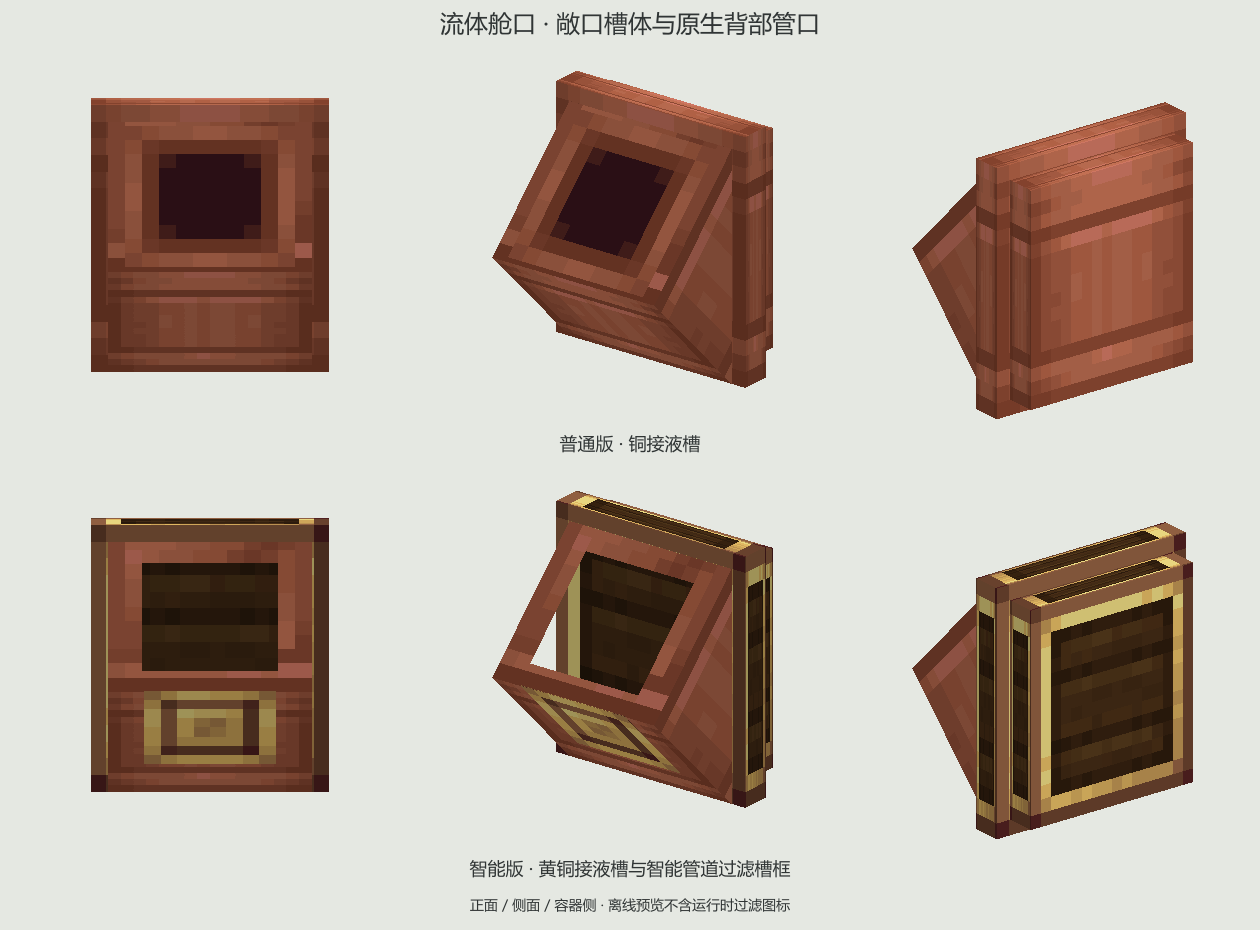
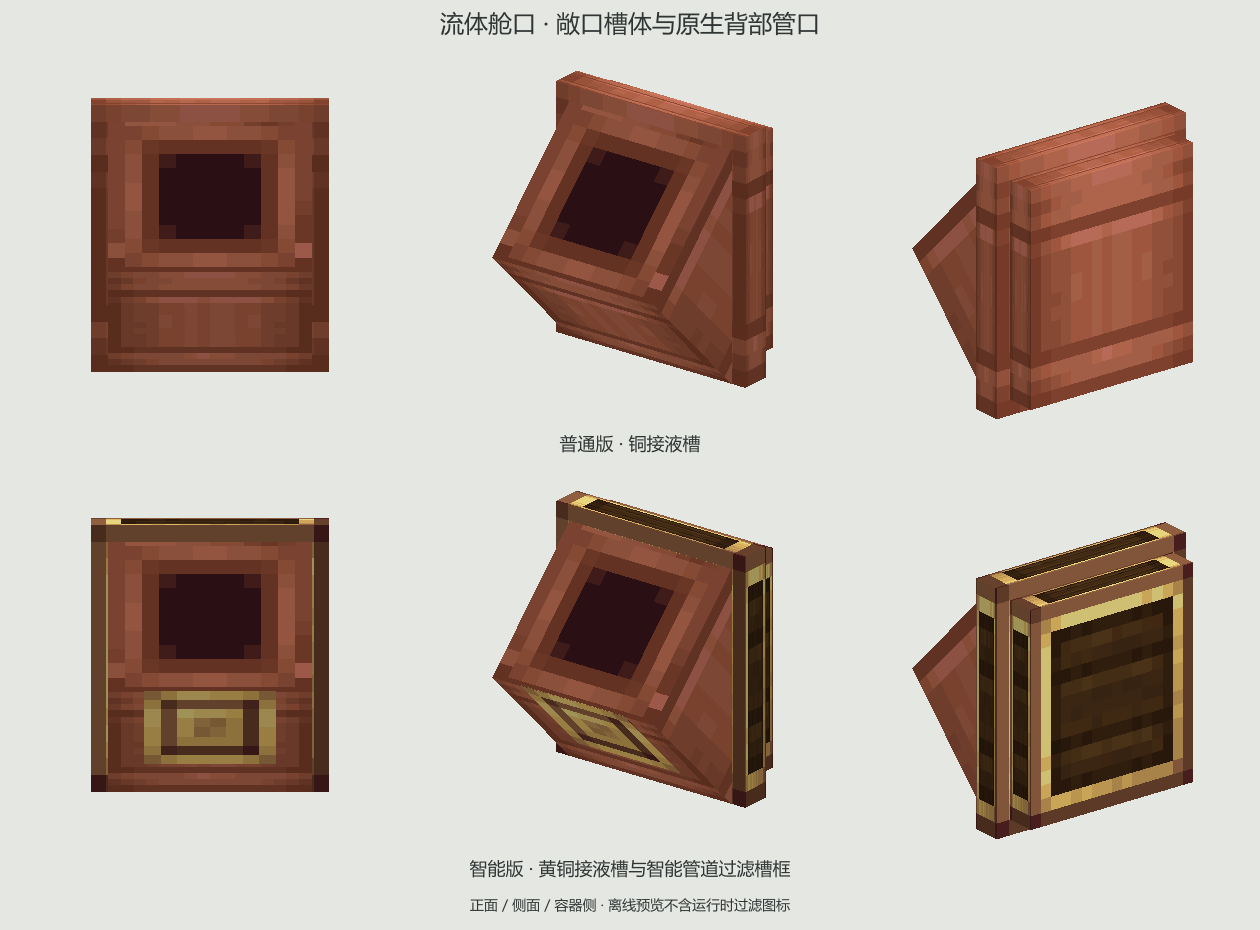
Reuse native pipe mouth on smart hatch upper opening

Changed region(s): [[0.0929, 0.5925, 0.2476, 0.7484], [0.4024, 0.5613, 0.5571, 0.7796]]

diff --git a/tools/reference-native-hatch-materials.py b/tools/reference-native-hatch-materials.py
@@ -43,18 +43,11 @@ for name,body,lid in [('fluid_hatch','fluid_tank','copper_underside'),('smart_fl
                         ('right',[13,0,12.55],[14,10.6,12.6]),
                         ('bottom',[3,0,12.55],[13,.3,12.6]),
                          ('top',[3,10.3,12.55],[13,10.6,12.6])]
-    if name=='smart_fluid_hatch':
-        # Cut the opening into the original brass cover itself: four coplanar
-        # strips retain continuous UVs, with no copper pipe fitting on this model.
-        strips=[('left',[2,0,12.55],[4,10.6,12.6]),
-                ('right',[12,0,12.55],[14,10.6,12.6]),
-                ('bottom',[4,0,12.55],[12,1.5,12.6]),
-                ('top',[4,9.1,12.55],[12,10.6,12.6])]
     for label,lo,hi in strips:
         elements.append({'name':'mouth_surround_'+label,'from':lo,'to':hi,
             'rotation':copy.deepcopy(original[2]['rotation']),
             'faces':{'south':{'texture':'#1','uv':[lo[0],16-hi[1],hi[0],16-lo[1]]}}})
-    for part_index,part in enumerate(pipe_parts if name=='fluid_hatch' else []):
+    for part_index,part in enumerate(pipe_parts):
         for native_part in part['elements']:
             mouth=copy.deepcopy(native_part)
             mouth['name']='native_inclined_pipe_mouth_'+str(part_index)

diff --git a/docs/tank-style-hatches.md b/docs/tank-style-hatches.md
@@ -1,5 +1,7 @@
 # 舱口原生材质试稿
 
+当前顶部开口：按最新要求，智能版也复用与普通版相同的 Create 管道端口组件。两版顶部开口一致；智能版铜色前部、黄铜后框和过滤槽保持不变，替代下述四条边围口试稿。
+
 铜前部试稿：智能版前方三角凸出部分（左右侧面、上斜面边框、下斜面）改用铜材质，后部安装框保留黄铜。过滤槽的贴图、位置、大小及方向不变。智能版上口由原斜面四条铜边围成，不再添加原生铜管口组件；普通版维持原生管口。此次仅更新模型、侧面裁剪派生图与离线预览，未运行客户端。
 
 上斜面管口：两种舱口的上斜面封板已移除，替换为 Create 流体管道 south 端的 rim_connector 与 rim，沿原斜面旋转、平移，直接引用 pipes 纹理。周围仅补窄条以衔接外框。下斜面和智能过滤槽维持上一版，未增加新的流体能力或改变点击逻辑。离线预览已更新，未构建或运行客户端。
